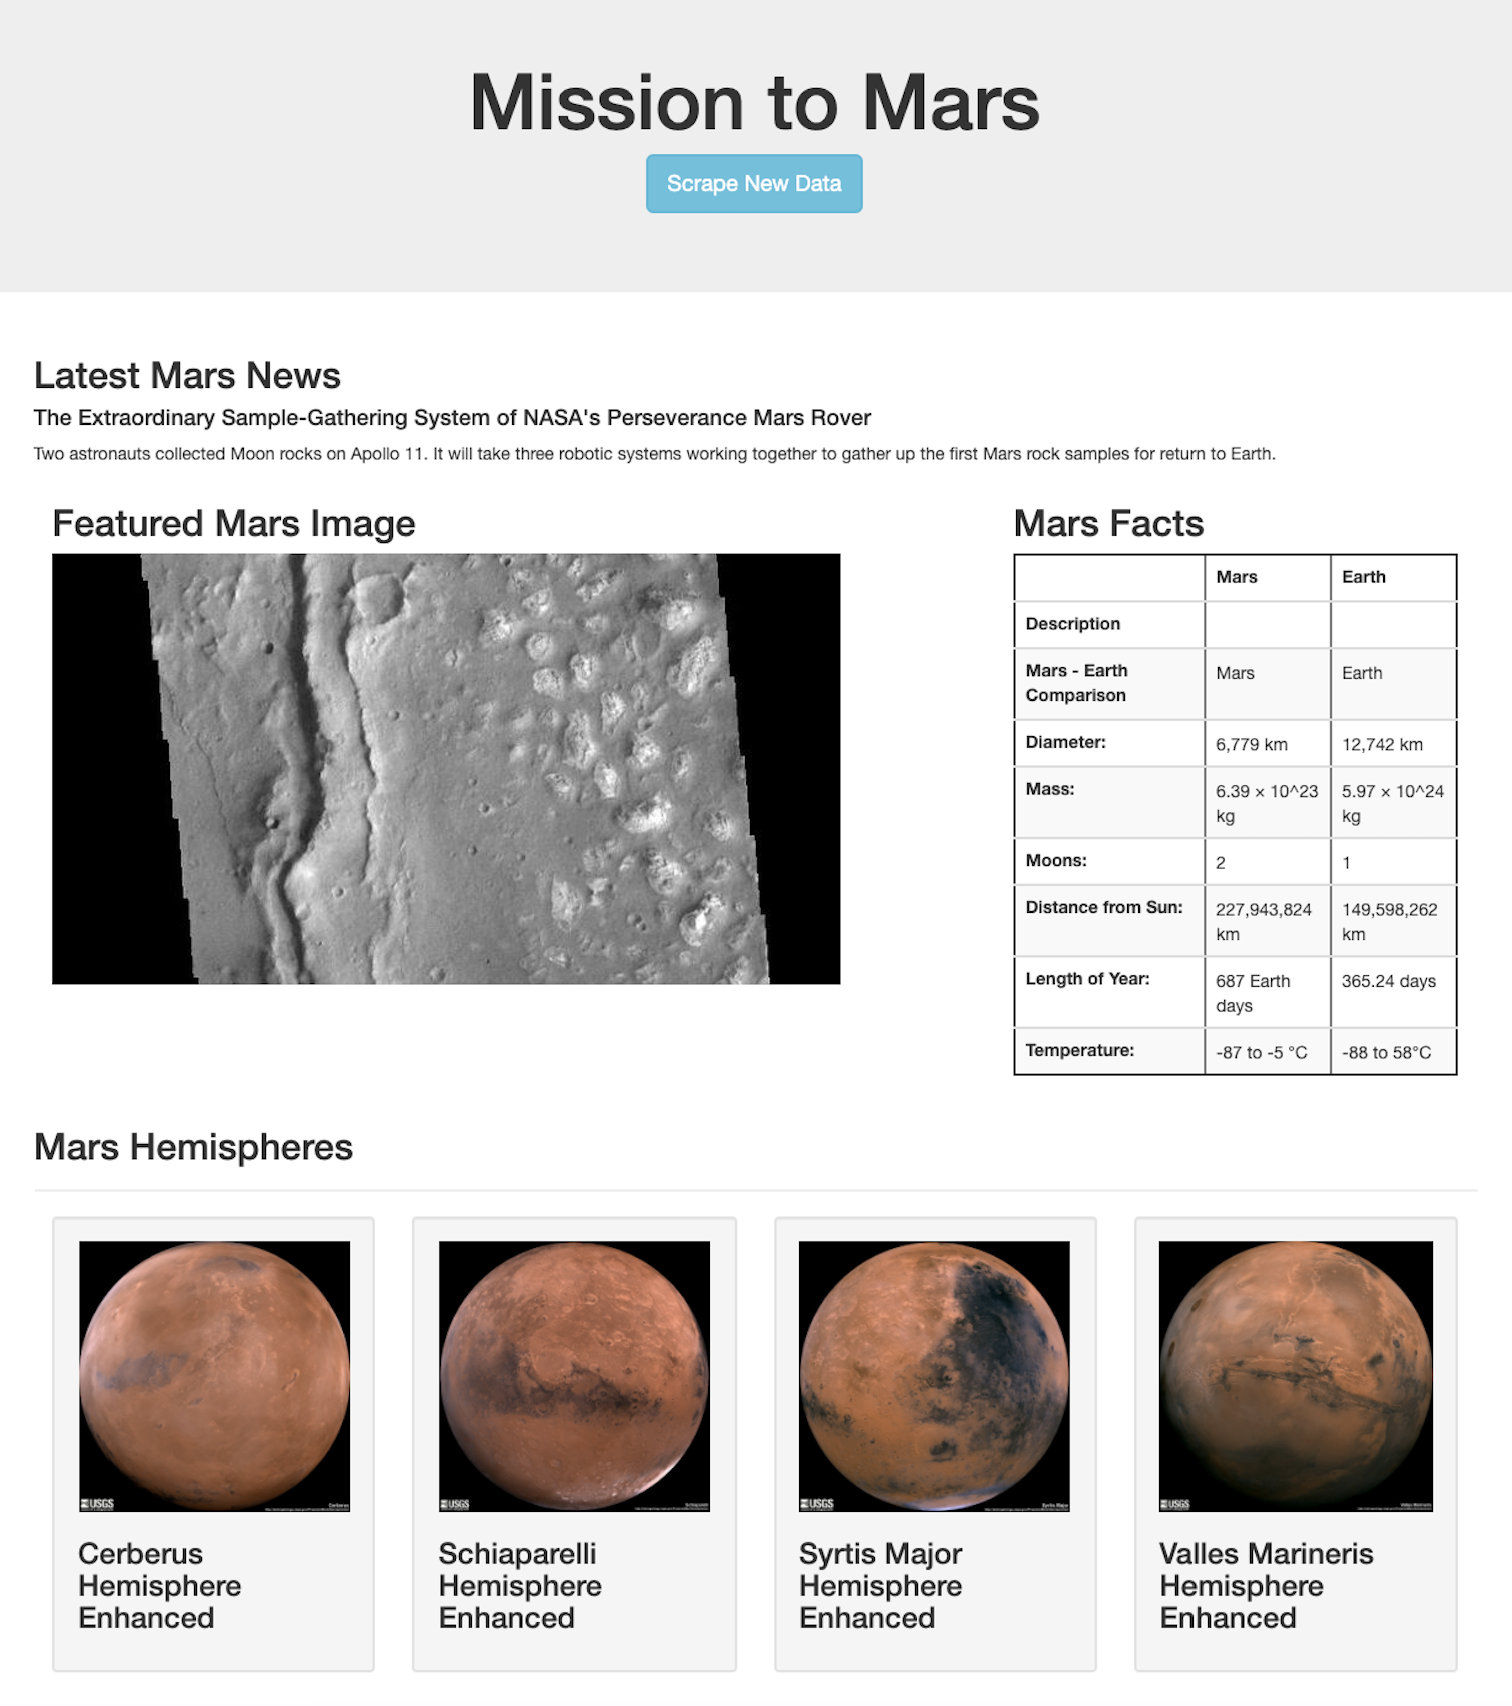
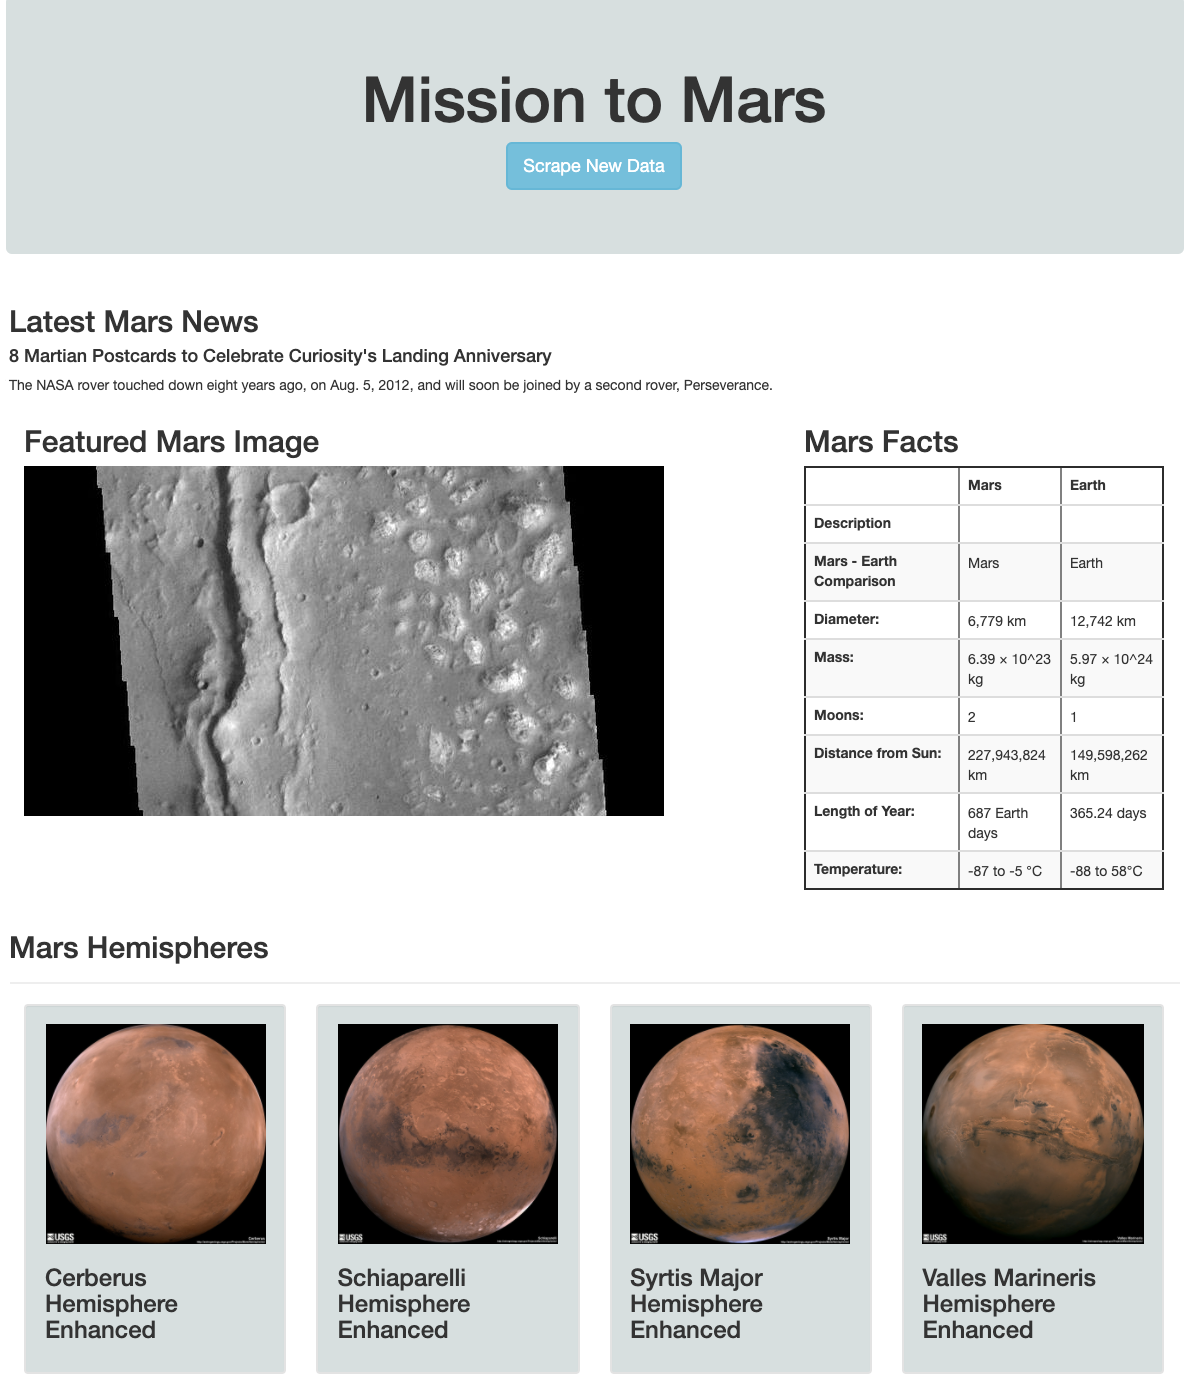
last commit

Changed region(s): [[0.0, 0.2165, 0.9916, 0.6496], [0.0, 0.6496, 0.9916, 0.9899], [0.0, 0.0309, 0.9916, 0.1856]]

diff --git a/templates/index.html b/templates/index.html
@@ -11,7 +11,7 @@
 
 <body>
   <div class="container-fluid">
-    <div class="jumbotron text-center">
+    <div class="jumbotron text-center" style="background-color: rgb(213, 223, 223)">
       <h1>Mission to Mars</h1>
       <p><a class="btn btn-info btn-lg" href="/scrape" role="button">Scrape New Data</a></p>
     </div>
@@ -40,7 +40,7 @@
             <div class = "row text-left">
               {% for hemisphere in mars.mars_hemispheres %}
                   <div class = "col-md-3 col-sm-6">   
-                    <div class = "well">      
+                    <div class = "well"  style="background-color: rgb(213, 223, 223)">      
                       <img src="{{hemisphere.img_url}}" width="100%">
                       <h3>{{hemisphere.title}}</h3>  
                     </div>    
